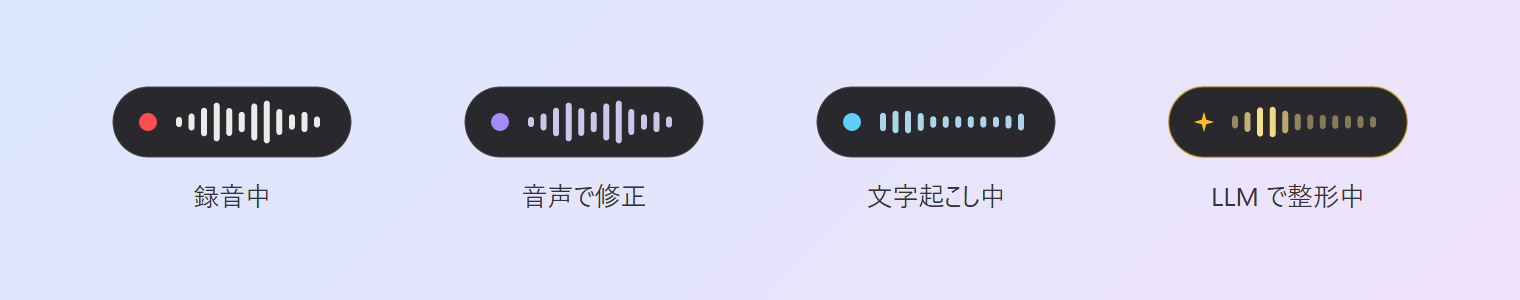
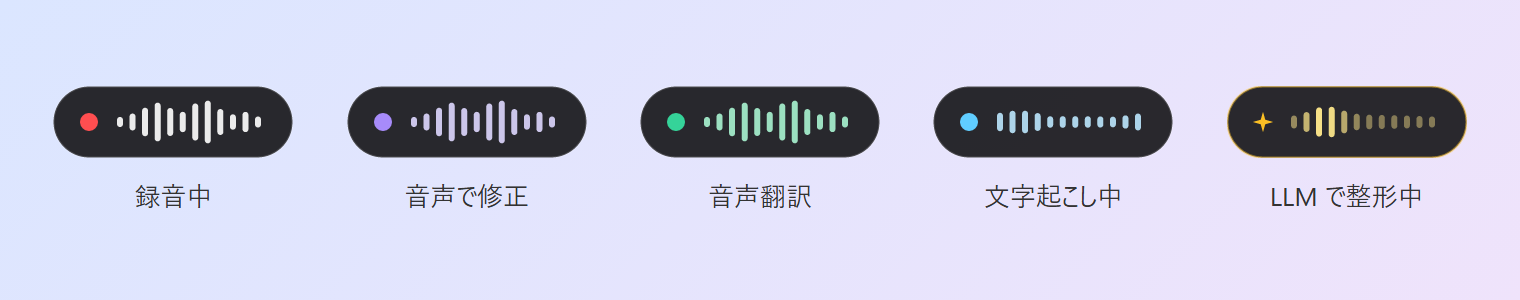
Add voice translation to the README demo, screenshots and feature text
The demo gains a third part: a colleague asks in another language, the
user holds Right Alt and presses T, speaks their own language, and the
translation is typed, followed by the review card (Chinese to English,
English to Japanese, Japanese to English). The floating bar states image
shows the green translation capsule, the settings screenshots include the
new hotkey, and the README text covers the organized polishing, the
output style prompt and the recording countdown.

diff --git a/scripts/readme/scene-demo.html b/scripts/readme/scene-demo.html
@@ -46,6 +46,24 @@
     .speech .label .ico { font: 13px "Segoe Fluent Icons", "Segoe MDL2 Assets"; }
     .speech.on .label { background: #e5484d; color: #fff; }
     .speech.on.revise .label { background: #7c5cd6; }
+    .speech.on.translate .label { background: #10b981; }
+
+    /* 语音翻译：悬浮条上方的目标语言小条、输出后的核对小窗（样子同 ui/translate.html） */
+    .lang-strip { position: absolute; left: 50%; bottom: 106px; transform: translateX(-50%); display: flex; align-items: center; gap: 8px; height: 40px; padding: 0 6px 0 12px; background: rgba(24,24,27,.92); color: #fff; border: 1px solid rgba(255,255,255,.16); border-radius: 20px; box-shadow: 0 4px 16px rgba(0,0,0,.18); white-space: nowrap; }
+    .lang-strip .ico { font: 14px "Segoe Fluent Icons", "Segoe MDL2 Assets"; color: #34d399; }
+    .lang-strip .label { font-size: 12px; color: #c5c5c5; }
+    .lang-strip .box { height: 28px; padding: 0 12px; line-height: 26px; border-radius: 14px; background: rgba(255,255,255,.08); border: 1px solid rgba(255,255,255,.18); }
+    .tcard { position: absolute; left: 50%; bottom: 60px; transform: translateX(-50%); width: 440px; display: flex; flex-direction: column; gap: 6px; padding: 10px 14px 12px; background: #fbfbfb; border: 1px solid #e0e0e0; border-radius: 10px; box-shadow: 0 4px 16px rgba(0,0,0,.18); }
+    .tcard .head { display: flex; align-items: center; gap: 8px; font-size: 12px; color: #5f5f5f; }
+    .tcard .head .x { margin-left: auto; font: 10px "Segoe Fluent Icons", "Segoe MDL2 Assets"; }
+    .tcard .flabel { font-size: 12px; color: #5f5f5f; }
+    .tcard .orig { padding: 6px 8px; border: 1px solid #d6d6d6; border-radius: 6px; background: #fff; }
+    .tcard .row { display: flex; align-items: center; gap: 8px; font-size: 12px; color: #5f5f5f; }
+    .tcard .row .box { padding: 2px 10px; border: 1px solid #d6d6d6; border-radius: 4px; background: #fff; color: #1b1b1b; font-size: 13px; }
+    .tcard .tr { color: #1b1b1b; }
+    .tcard .foot { display: flex; justify-content: flex-end; gap: 8px; margin-top: 2px; }
+    .tcard .btn { height: 28px; padding: 0 14px; line-height: 26px; border: 1px solid #d6d6d6; border-radius: 4px; background: #fff; font-size: 12px; }
+    .tcard .btn.accent { background: #005fb8; border-color: #005fb8; color: #fff; }
     .speech #stext { white-space: nowrap; }
   </style>
 </head>
@@ -54,6 +72,7 @@
   <div class="steps">
     <div class="step" id="step1"><b id="s1t"></b><span id="s1d"></span></div>
     <div class="step" id="step2"><b id="s2t"></b><span id="s2d"></span></div>
+    <div class="step" id="step3"><b id="s3t"></b><span id="s3d"></span></div>
   </div>
   <div class="window">
     <div class="titlebar"><span class="name" id="app"></span><span class="ctl">&#xE921;</span><span class="ctl">&#xE922;</span><span class="ctl">&#xE8BB;</span></div>
@@ -61,6 +80,15 @@
     <div class="input" id="input"></div>
   </div>
   <div class="keys" id="keys"><div class="kbd-row" id="kbd"></div><div class="hint" id="khint"></div></div>
+  <div class="lang-strip" id="strip"><span class="ico">&#xE8C1;</span><span class="label" id="into1"></span><span class="box" id="target1"></span></div>
+  <div class="tcard" id="tcard">
+    <div class="head"><span id="ttitle"></span><span class="x">&#xE711;</span></div>
+    <span class="flabel" id="olabel"></span>
+    <div class="orig" id="heard"></div>
+    <div class="row"><span id="into2"></span><span class="box" id="target2"></span></div>
+    <div class="tr" id="tr"></div>
+    <div class="foot"><span class="btn" id="copy"></span><span class="btn accent" id="retr"></span></div>
+  </div>
   <img class="capsule" id="capsule" alt="">
   <div class="taskbar"><span>&#xE8FC;</span><span class="on">&#xE8BD;</span><span>&#xE8B7;</span><span>&#xE774;</span></div>
   </div>
@@ -81,6 +109,13 @@
       draft: "还行吧，就是有时候有点慢",
       said2: "改得正式一点，再补充一句识别很准",
       out2: "整体体验不错，识别非常准确，只是偶尔响应稍慢。",
+      s3t: "③ 语音翻译", s3d: "说中文，输出英文", holdT: "按住 Right Alt 再按 T",
+      q3: "Could you send me the slides before tomorrow's meeting?",
+      said3: "嗯可以的，我今天下班之前发给你，然后有问题随时问我",
+      heard3: "嗯可以的，我今天下班之前发给你，然后有问题随时问我。",
+      target: "英语",
+      out3: "Sure, I'll send them before I leave work today. Feel free to ask me if you have any questions.",
+      into: "译成", ttitle: "语音翻译", olabel: "识别出的原文（有识别错误可以直接修改）", copy: "复制译文", retr: "重新翻译",
     }, en: {
       app: "Team chat",
       s1t: "① Dictate", s1d: "polished by an LLM", s2t: "② Voice edit", s2d: "say how to change it",
@@ -92,6 +127,13 @@
       draft: "its ok i guess but kinda slow sometimes",
       said2: "make it more formal and add that the accuracy is great",
       out2: "Overall it works well and the accuracy is excellent, though it can be a little slow at times.",
+      s3t: "③ Translate", s3d: "speak English, type Japanese", holdT: "Hold Right Alt, press T",
+      q3: "明日の会議の前に資料を送ってもらえますか？",
+      said3: "sure um I'll send them before I leave today and uh let me know if you have any questions",
+      heard3: "Sure, um, I'll send them before I leave today and, uh, let me know if you have any questions.",
+      target: "Japanese",
+      out3: "はい、今日の退勤前にお送りします。ご不明な点があれば、お気軽にお知らせください。",
+      into: "Into", ttitle: "Voice translation", olabel: "Recognized text (fix any recognition errors here)", copy: "Copy translation", retr: "Retranslate",
     }, ja: {
       app: "チームチャット",
       s1t: "① 音声入力", s1d: "LLM が自動で整形", s2t: "② 音声で修正", s2d: "直し方を話す",
@@ -103,27 +145,43 @@
       draft: "まあまあかな、たまにちょっと遅いけど",
       said2: "もっと丁寧にして、認識がすごく正確なことも付け足して",
       out2: "全体的に使いやすく、認識もとても正確です。ただ、ときどき反応が少し遅くなります。",
+      s3t: "③ 音声翻訳", s3d: "日本語で話して英語で入力", holdT: "Right Alt を押したまま T",
+      q3: "Could you send me the slides before tomorrow's meeting?",
+      said3: "はい、えーと、今日の帰りまでに送りますね、あの、何かあったら聞いてください",
+      heard3: "はい、えーと、今日の帰りまでに送りますね。あの、何かあったら聞いてください。",
+      target: "英語",
+      out3: "Sure, I'll send them before I head home today. Let me know if you have any questions.",
+      into: "翻訳先", ttitle: "音声翻訳", olabel: "認識された原文（認識の誤りはここで直接修正できます）", copy: "訳文をコピー", retr: "再翻訳",
     } }[lang];
-    for (const id of ["app", "s1t", "s1d", "s2t", "s2d"]) document.getElementById(id).textContent = L[id];
+    for (const id of ["app", "s1t", "s1d", "s2t", "s2d", "s3t", "s3d", "ttitle", "olabel", "copy", "retr", "heard3"]) {
+      const el = document.getElementById(id === "heard3" ? "heard" : id);
+      el.textContent = L[id];
+    }
+    for (const id of ["into1", "into2"]) document.getElementById(id).textContent = L.into;
+    for (const id of ["target1", "target2"]) document.getElementById(id).textContent = L.target;
+    document.getElementById("tr").textContent = L.out3;
     document.getElementById("slabel").textContent = L.mic;
 
     // === 时间轴（毫秒）===
     const T = {
       rec1: 700, stop1: 4600, pol1: 5500, out1: 7000, send1: 8200, q2: 8900,
       type2: 9500, typed2: 10700, sel2: 11000, rev2: 11700, stop2: 14500, pol2: 15300, out2: 16700, send2: 17900,
-      end: 19500,
+      q3: 18600, rec3: 19300, stop3: 23300, pol3: 24100, out3: 25500, card3: 26700, send3: 29500,
+      end: 30700,
     };
     const FPS = 30;
-    const FRAMES = { recording: 240, revising: 180, transcribing: 60, polishing: 90 };
+    const FRAMES = { recording: 240, revising: 180, translating: 180, transcribing: 60, polishing: 90 };
     // 悬浮条：[开始, 结束, 状态]
     const CAPSULE = [
       [T.rec1, T.stop1, "recording"], [T.stop1, T.pol1, "transcribing"], [T.pol1, T.out1, "polishing"],
       [T.rev2, T.stop2, "revising"], [T.stop2, T.pol2, "transcribing"], [T.pol2, T.out2, "polishing"],
+      [T.rec3, T.stop3, "translating"], [T.stop3, T.pol3, "transcribing"], [T.pol3, T.out3, "polishing"],
     ];
     // 按键：[按下时刻, 键, 提示]
     const PRESSES = [
       [T.rec1, ["Right Alt"], L.tap], [T.stop1, ["Right Alt"], L.tap],
       [T.rev2, ["Right Alt", "Space"], L.hold], [T.stop2, ["Right Alt"], L.tap],
+      [T.rec3, ["Right Alt", "T"], L.holdT], [T.stop3, ["Right Alt"], L.tap],
     ];
 
     const $ = (id) => document.getElementById(id);
@@ -150,13 +208,16 @@
     function render(t) {
       t = t % T.end;
       $("step1").classList.toggle("on", t < T.q2);
-      $("step2").classList.toggle("on", t >= T.q2);
+      $("step2").classList.toggle("on", t >= T.q2 && t < T.q3);
+      $("step3").classList.toggle("on", t >= T.q3);
 
       // 聊天记录
       const msgs = [["", L.q1]];
       if (t >= T.send1) msgs.push(["me", L.out1]);
       if (t >= T.q2) msgs.push(["", L.q2]);
       if (t >= T.send2) msgs.push(["me", L.out2]);
+      if (t >= T.q3) msgs.push(["", L.q3]);
+      if (t >= T.send3) msgs.push(["me", L.out3]);
       $("chat").innerHTML = msgs.map(([c, s]) => `<div class="msg ${c}">${esc(s)}</div>`).join("");
 
       // 输入框
@@ -174,6 +235,9 @@
       } else if (t >= T.out2 && t < T.send2) {
         const flash = fadeOut(1 - ramp(t, T.out2, 900));
         html = `<span class="new" style="background:rgba(251,191,36,${0.35 * flash})">${esc(L.out2)}</span>${caret}`;
+      } else if (t >= T.out3 && t < T.send3) {
+        const flash = fadeOut(1 - ramp(t, T.out3, 900));
+        html = `<span class="new" style="background:rgba(52,211,153,${0.35 * flash})">${esc(L.out3)}</span>${caret}`;
       }
       $("input").innerHTML = html;
 
@@ -182,6 +246,7 @@
       let said = null, start = 0, stop = 0, out = 0;
       if (t >= T.rec1 && t < T.out1 + 400) [said, start, stop, out] = [L.said1, T.rec1, T.stop1, T.out1];
       if (t >= T.rev2 && t < T.out2 + 400) [said, start, stop, out] = [L.said2, T.rev2, T.stop2, T.out2];
+      if (t >= T.rec3 && t < T.out3 + 400) [said, start, stop, out] = [L.said3, T.rec3, T.stop3, T.out3];
       if (said) {
         const n = Math.max(1, Math.round(len(said) * ramp(t, start + 200, stop - start - 500)));
         const [open, close] = lang === "ja" ? ["「", "」"] : ["“", "”"];
@@ -189,6 +254,7 @@
         $("stext").style.opacity = Math.min(ramp(t, start, 150), fadeOut(1 - ramp(t, out, 400)));
         speech.classList.toggle("on", t < stop);
         speech.classList.toggle("revise", said === L.said2);
+        speech.classList.toggle("translate", said === L.said3);
       } else {
         $("stext").textContent = "";
         speech.classList.remove("on");
@@ -205,6 +271,10 @@
       } else {
         $("keys").style.opacity = 0;
       }
+
+      // 语音翻译：录音时悬浮条上方显示目标语言；译文输入后弹出核对小窗，发送消息时关掉
+      $("strip").style.opacity = t >= T.rec3 && t < T.stop3 ? Math.min(ramp(t, T.rec3, 120), fadeOut(1 - ramp(t, T.stop3 - 120, 120))) : 0;
+      $("tcard").style.opacity = t >= T.card3 && t < T.send3 ? Math.min(ramp(t, T.card3, 150), fadeOut(1 - ramp(t, T.send3 - 150, 150))) : 0;
 
       // 悬浮条：用程序自身绘制的逐帧图片；出现/消失时淡入淡出约 100 ms
       const cap = $("capsule");

diff --git a/scripts/readme/mock.js b/scripts/readme/mock.js
@@ -23,26 +23,32 @@
   const settings = {
     config: {
       ui_language: lang, hotkey: "right alt", revise_hotkey: "right alt+space", revise_stop_hotkey: "right alt",
-      cancel_hotkey: "esc", model: "sense-voice", model_dir: "", language: lang, max_duration: 90, min_duration: 3,
+      cancel_hotkey: "esc", translate_hotkey: "right alt+t", translate_language: "English",
+      speech_source: "local", speech_api: "", speech_api_key: "", speech_api_model: "",
+      model: "sense-voice", model_dir: "", language: lang, max_duration: 90, min_duration: 3,
       device: "gpu", mute_while_recording: true, polish: true, polish_api: "https://api.openai.com/v1",
       polish_api_key: "sk-example", polish_model: "gpt-4o-mini", polish_no_think: true, polish_min_chars: 12,
-      polish_min_seconds: 10, polish_prompt: "", revise_prompt: "", insert_prompt: "",
+      polish_min_seconds: 10, style_prompt: "", polish_prompt: "", revise_prompt: "", insert_prompt: "", translate_prompt: "",
       insert_smart: true, insert_min_seconds: 10, insert_min_chars: 12, vocab_enabled: true, learn_from_edits: true, auto_check_updates: true,
     },
     models,
     default_model_dir: "C:\\Users\\you\\AppData\\Local\\Aoide\\models",
     log_dir: "C:\\Users\\you\\AppData\\Roaming\\Aoide",
     autostart: true,
-    version: "0.4.1",
+    version: "0.5.0",
     system_language: lang,
     defaults: {
       ui_language: "auto", hotkey: "right alt", revise_hotkey: "right alt+space", revise_stop_hotkey: "right alt",
-      cancel_hotkey: "esc", model: "sense-voice", model_dir: "", language: "auto", max_duration: 90, min_duration: 3,
+      cancel_hotkey: "esc", translate_hotkey: "right alt+t", translate_language: "English",
+      speech_source: "local", speech_api: "", speech_api_key: "", speech_api_model: "",
+      model: "sense-voice", model_dir: "", language: "auto", max_duration: 90, min_duration: 3,
       device: "gpu", mute_while_recording: true, polish: true, polish_api: "", polish_api_key: "", polish_model: "",
-      polish_no_think: true, polish_min_chars: 12, polish_min_seconds: 10, polish_prompt: "", revise_prompt: "", insert_prompt: "",
+      polish_no_think: true, polish_min_chars: 12, polish_min_seconds: 10, style_prompt: "", polish_prompt: "", revise_prompt: "", insert_prompt: "", translate_prompt: "",
       insert_smart: true, insert_min_seconds: 10, insert_min_chars: 12, vocab_enabled: true, learn_from_edits: true, auto_check_updates: true,
     },
+    default_style_prompt: "…",
     default_polish_prompt: "…",
+    default_translate_prompt: "…",
     default_revise_prompt: "…",
     default_insert_prompt: "…",
   };

diff --git a/scripts/readme/scene-states.html b/scripts/readme/scene-states.html
@@ -20,6 +20,7 @@
 <body>
   <figure><img src="img/capsule-recording.png" alt=""><figcaption data-zh="录音中" data-en="Recording" data-ja="録音中"></figcaption></figure>
   <figure><img src="img/capsule-revising.png" alt=""><figcaption data-zh="语音修订" data-en="Voice edit" data-ja="音声で修正"></figcaption></figure>
+  <figure><img src="img/capsule-translating.png" alt=""><figcaption data-zh="语音翻译" data-en="Voice translation" data-ja="音声翻訳"></figcaption></figure>
   <figure><img src="img/capsule-transcribing.png" alt=""><figcaption data-zh="转写中" data-en="Transcribing" data-ja="文字起こし中"></figcaption></figure>
   <figure><img src="img/capsule-polishing.png" alt=""><figcaption data-zh="LLM 润色中" data-en="LLM polishing" data-ja="LLM で整形中"></figcaption></figure>
   <script>

diff --git a/src-tauri/src/overlay.rs b/src-tauri/src/overlay.rs
@@ -373,7 +373,7 @@ mod tests {
     }
 
     /// README 演示动图用：按 30 fps 导出各状态的逐帧动画（scripts/readme-demo.ps1 调用）
-    /// 输出 {VT_IMG_DIR}/frames/{recording,revising,transcribing,polishing}-NNNN.png
+    /// 输出 {VT_IMG_DIR}/frames/{recording,revising,translating,transcribing,polishing}-NNNN.png
     #[test]
     #[ignore]
     fn export_capsule_frames() {
@@ -390,6 +390,7 @@ mod tests {
         for (name, mode, secs) in [
             ("recording", Mode::Recording, 8.0),
             ("revising", Mode::Revising, 6.0),
+            ("translating", Mode::Translating, 6.0),
             ("transcribing", Mode::Processing, 2.0),
             ("polishing", Mode::Polishing, 3.0),
         ] {
@@ -397,7 +398,7 @@ mod tests {
             for i in 0..(secs * FPS) as usize {
                 let t = i as f32 / FPS;
                 let mut v = anim(mode, [0.0; N_BARS], now - Duration::from_secs_f32(t));
-                if matches!(mode, Mode::Recording | Mode::Revising) {
+                if matches!(mode, Mode::Recording | Mode::Revising | Mode::Translating) {
                     // 与 update_bars 相同：每 60 ms 推入一格音量，从右往左滚动
                     let shifts = (t * 1000.0 / 60.0) as i32;
                     for (k, b) in v.bars.iter_mut().enumerate() {

diff --git a/README.ja.md b/README.ja.md
@@ -25,7 +25,7 @@
 </p>
 
 <p align="center">
-  <img src="docs/images/ja/demo.webp" width="760" alt="デモ：チャットアプリに音声入力すると LLM が話し言葉を整え、続いて返信を選択して音声で書き直す">
+  <img src="docs/images/ja/demo.webp" width="760" alt="デモ：チャットアプリに音声入力すると LLM が話し言葉を整え、返信を選択して音声で書き直し、最後に日本語で話して英語で入力する">
 </p>
 
 <p align="center"><sub><i>Aoide</i>（アオイデー）は、ギリシャ神話で声と歌をつかさどるムーサの名前に由来します</sub></p>
@@ -47,9 +47,9 @@ Aoide は Windows と macOS 向けの音声入力アプリで、Typeless や Wis
 
 > macOS の既定のショートカットキーは `右 Option` で、トレイアイコンはメニューバーに表示されます。これらのキーがないことが多い日本語（JIS）キーボードでは、Windows は `変換` キー、macOS は `右 Command` が既定です。音声で修正は、そのキー + `Space` です。
 
-- **フィードバック**：開始・終了・キャンセルでそれぞれ異なる効果音が鳴ります。画面下部のフローティングバーに処理の状態が表示され、トレイアイコンには録音中は赤、完了時は緑のバッジが付きます。エラーなどのメッセージは画面下部の小さな通知に表示され、自動で閉じます（システム通知を使わないため、通知をオフにしていても見逃しません）。
+- **フィードバック**：開始・終了・キャンセルでそれぞれ異なる効果音が鳴ります。画面下部のフローティングバーに処理の状態が表示され（録音が最長時間に近づくと最後の 20 秒をカウントダウン）、トレイアイコンには録音中は赤、完了時は緑のバッジが付きます。エラーなどのメッセージは画面下部の小さな通知に表示され、自動で閉じます（システム通知を使わないため、通知をオフにしていても見逃しません）。
 
-  ![フローティングバーの状態：録音中、音声で修正、文字起こし中、LLM で整形中](docs/images/ja/states.png)
+  ![フローティングバーの状態：録音中、音声で修正、音声翻訳、文字起こし中、LLM で整形中](docs/images/ja/states.png)
 
 - **スマートな出力**：フォーカスのあるコントロールに入力できる場合は結果を貼り付け、その後で元のクリップボードのテキストを戻します。入力できない場合は、画面下部の小さなカードに結果を表示し、**コピー**・**閉じる** ボタンで扱えるので、内容が失われることはありません。
 
@@ -57,7 +57,7 @@ Aoide は Windows と macOS 向けの音声入力アプリで、Typeless や Wis
 
 - **文脈に合わせた挿入**：カーソルが既存のテキストの途中にあるとき、LLM がカーソル前後のテキストを参照し、カーソル位置に入るべき部分だけを、前後の言語や句読点に合わせて書きます。既存のテキストは一切変更せず、結果はカーソル位置に貼り付けます。短い音声入力は速さを優先して文字起こし結果をそのまま挿入し、長い入力のときだけ LLM を使います（しきい値は変更可能）。LLM API の設定が必要です。パスワード欄は決して読み取りません。
 - **言葉を覚える**：人名、製品名、専門用語など、何度も誤認識される言葉は一度直すだけで済みます。入力された後で入力欄の中の言葉を直すと、Aoide は自分が入力した内容と修正後を比べ、読みが近いことを確かめたうえで（言い換えを誤認識と取り違えないため）、その組み合わせを辞書に追加し、**元に戻す** ボタン付きの小さな通知を表示します。次からは、繰り返し直した誤認識はそのまま置き換え、それ以外は関連する辞書の項目と一緒に LLM に渡し、文脈に合わせて直させます。**設定 → 辞書** から手動で単語を追加することもできます。
-- **LLM による整形**：「えー」「あの」などのフィラーを取り除き、途切れた文をつなげ、列挙された要点を番号付きリストにまとめます。話していない内容を付け足すことはありません。
+- **LLM による整形**：「えー」「あの」などのフィラーを取り除き、途切れた文をつなげたうえで、内容を整理します。いくつかの要点を話すと「短い前置き + 番号付きリスト」に、長めの説明は段落に分け、短いメッセージは 1 文のままにします。話していない内容を付け足すことはありません。体裁と言葉づかいのルールは、整形・挿入・音声で修正・翻訳に共通の「出力スタイル」プロンプトにまとめてあり、**設定 → プロンプト** で編集できます。
 - **自動アップデート**：1 日 1 回新しいバージョンを確認し、画面下部の通知とトレイメニューの項目でお知らせします。ワンクリックで更新でき、署名付きのインストーラーをダウンロード・検証してインストールし、Aoide が自動で再起動します。音声入力中に更新することはありません。毎日の確認はオフにでき、**設定 → バージョン情報** から手動で確認することもできます。
 - **2 つの音声認識エンジン**：SenseVoice（既定）はどの CPU でも高速で、中国語の精度が非常に高く、幻覚もほとんど起きません。Whisper モデルは Vulkan を通じて GPU で動作し（NVIDIA、AMD、Intel に対応、CUDA のインストールは不要）、GPU が使えない場合は自動で CPU に切り替わります。Apple シリコン搭載の Mac では Metal を通じて GPU で動作します。
 

diff --git a/README.md b/README.md
@@ -25,7 +25,7 @@
 </p>
 
 <p align="center">
-  <img src="docs/images/en/demo.webp" width="760" alt="Demo: dictating into a chat app, the LLM cleans up the speech; then selecting a reply and rewriting it by voice">
+  <img src="docs/images/en/demo.webp" width="760" alt="Demo: dictating into a chat app, the LLM cleans up the speech; selecting a reply and rewriting it by voice; then speaking one language and typing another">
 </p>
 
 <p align="center"><sub><i>Aoide</i> (pronounced "ay-OY-dee") is named after the Greek Muse of voice and song</sub></p>
@@ -47,9 +47,9 @@ No account and no cloud service needed. Audio only leaves your computer if you c
 
 > On macOS the default hotkey is `Right Option`, and the tray icon lives in the menu bar. On Japanese (JIS) keyboards, which often lack these keys, the default is `変換` (Henkan) on Windows and `Right Command` on macOS; voice edit is that key + `Space`.
 
-- **Feedback**: distinct sounds for start, stop and cancel; a floating bar at the bottom of the screen shows what Aoide is doing; the tray icon gets a red badge while recording and a green one when done. Errors and other messages appear in a small notice at the bottom of the screen that closes on its own (Aoide doesn't use system notifications, so they can't be missed when notifications are off).
+- **Feedback**: distinct sounds for start, stop and cancel; a floating bar at the bottom of the screen shows what Aoide is doing, and counts down the last 20 seconds before a recording reaches its maximum length; the tray icon gets a red badge while recording and a green one when done. Errors and other messages appear in a small notice at the bottom of the screen that closes on its own (Aoide doesn't use system notifications, so they can't be missed when notifications are off).
 
-  ![Floating bar states: recording, voice edit, transcribing, LLM polishing](docs/images/en/states.png)
+  ![Floating bar states: recording, voice edit, voice translation, transcribing, LLM polishing](docs/images/en/states.png)
 
 - **Smart output**: if the focused control accepts text, the result is pasted and your previous clipboard text is restored afterwards. Otherwise the result appears in a small card at the bottom of the screen with **Copy** and **Close** buttons, so nothing is lost.
 
@@ -57,7 +57,7 @@ No account and no cloud service needed. Audio only leaves your computer if you c
 
 - **Context-aware insertion**: when the cursor sits inside existing text, the LLM sees the text before and after the cursor and writes only the piece that belongs at the cursor, matching the surrounding language and punctuation. The existing text is never changed — the result is pasted at the cursor. Short dictation is inserted as transcribed for speed; the LLM step kicks in for longer input (configurable). Requires an LLM API; password fields are never read.
 - **Learns your words**: names, product names and jargon that keep coming out wrong only need to be fixed once. Correct the word in the text box after it is typed, and Aoide compares your edit with what it typed, checks that the two sound alike (so rewording is not mistaken for a recognition error), adds the pair to your vocabulary and shows a small notice with **Undo**. Next time, a misrecognition you have corrected repeatedly is replaced directly; others are passed to the LLM together with the related vocabulary entries, so it can fix them in context. You can also add words by hand under **Settings → Vocabulary**.
-- **LLM polishing**: removes filler words ("um", "uh", 嗯, 那个…), joins broken sentences, and turns lists of points into a numbered list — without adding content you didn't say.
+- **LLM polishing**: removes filler words ("um", "uh", 嗯, 那个…) and joins broken sentences, then organizes what you said: several points become a short lead-in plus a numbered list, a longer explanation is split into paragraphs, and a short message stays a single sentence. Nothing you didn't say is added. The layout and wording rules live in one **Output style** prompt shared by polishing, insertion, voice edit and translation; edit it under **Settings → Prompts**.
 - **Automatic updates**: Aoide checks for a new version once a day, lets you know with a notice at the bottom of the screen and a tray menu item, and updates in one click: the signed installer is downloaded, verified and installed, and Aoide restarts on its own. It never updates while you are dictating. You can turn the daily check off and check manually under **Settings → About**.
 - **Two speech engines**: SenseVoice (default) is fast on any CPU, very accurate for Chinese and rarely hallucinates; Whisper models run on the GPU through Vulkan (NVIDIA, AMD or Intel, no CUDA install required) and fall back to CPU automatically. On Apple silicon Macs they run on the GPU through Metal.
 

diff --git a/README.zh-CN.md b/README.zh-CN.md
@@ -25,7 +25,7 @@
 </p>
 
 <p align="center">
-  <img src="docs/images/zh/demo.webp" width="760" alt="演示：在聊天软件里语音输入，LLM 整理口语；再选中一段回复，用语音改写">
+  <img src="docs/images/zh/demo.webp" width="760" alt="演示：在聊天软件里语音输入，LLM 整理口语；选中一段回复，用语音改写；再说中文、输出英文">
 </p>
 
 <p align="center"><sub><i>Aoide</i>（阿俄伊得）得名于希腊神话中掌管歌声与嗓音的缪斯</sub></p>
@@ -47,9 +47,9 @@ Aoide 是一款 Windows 和 macOS 平台的语音输入应用，是 Typeless、W
 
 > macOS 上默认快捷键是 `右Option`，托盘图标在菜单栏里。日文（JIS）键盘上往往没有这两个键，默认改为 Windows 的 `変換` 键、macOS 的 `右Command`；语音修订是该键加 `Space`。
 
-- **反馈**：开始、结束、取消各有不同的提示音；屏幕底部的悬浮条显示当前所处的阶段；托盘图标录音时带红色角标，完成时带绿色角标。出错等消息显示在屏幕底部的提示小窗里，几秒后自动关闭（不使用系统通知，关掉了通知也不会错过）。
+- **反馈**：开始、结束、取消各有不同的提示音；屏幕底部的悬浮条显示当前所处的阶段，录音快到最长时长时显示最后 20 秒的倒计时；托盘图标录音时带红色角标，完成时带绿色角标。出错等消息显示在屏幕底部的提示小窗里，几秒后自动关闭（不使用系统通知，关掉了通知也不会错过）。
 
-  ![悬浮条的各个状态：录音中、语音修订、转写中、LLM 润色中](docs/images/zh/states.png)
+  ![悬浮条的各个状态：录音中、语音修订、语音翻译、转写中、LLM 润色中](docs/images/zh/states.png)
 
 - **智能输出**：焦点控件可输入时直接粘贴，粘完自动恢复你原来的剪贴板文本；否则在屏幕底部弹出一张结果卡片显示识别结果，带「复制」和「关闭」按钮，内容不会丢失。
 
@@ -57,7 +57,7 @@ Aoide 是一款 Windows 和 macOS 平台的语音输入应用，是 Typeless、W
 
 - **按上下文插入**：光标在已有文字中间时，LLM 会参考光标前后的文字，只生成应该插入光标处的内容，并与前后文的语言、标点自然衔接。已有文字绝不会被改动（结果是在光标处粘贴的）。很短的口述直接插入转写结果、保证速度，较长的才交给 LLM（阈值可调）。需要配置 LLM API；密码框的内容绝不会被读取。
 - **记住你的词**：人名、产品名、行业术语总被识别错，只需改正一次。识别结果输入后，直接在输入框里把错的词改对，Aoide 会比对你的修改和它输入的内容，确认两者读音相近（不会把你换了说法误当成识别错误），把这组纠正加入词库，并弹出带 **撤销** 按钮的提示。之后再遇到：反复纠正过的误识别直接替换，其余的连同相关词条交给 LLM 结合上下文改正。也可以在 **设置 → 词库** 里手动添加。
-- **LLM 润色**：去掉语气词（嗯、啊、那个……），把断句连成完整句子，多个并列要点自动排成编号列表 —— 不会添加你没说的内容。
+- **LLM 润色**：去掉语气词（嗯、啊、那个……），把断句连成完整句子，再把内容整理好：说了几个要点，就整理成「一句引子 + 编号列表」；较长的说明分成段落；一句话的短消息保持一句话。不会添加你没说的内容。排版和措辞规则统一放在「输出风格」提示词里，由润色、插入、修订、翻译共用，可在 **设置 → 提示词** 修改。
 - **自动更新**：每天检查一次新版本，通过屏幕底部的提示小窗和托盘菜单提醒你，一键即可更新：自动下载带签名的安装包、校验后安装，装完自动重启。正在语音输入时不会更新。可以在 **设置 → 关于** 里手动检查，也可以关掉每日检查。
 - **两种识别引擎**：SenseVoice（默认）在任何 CPU 上都很快，中文识别准确，几乎不会产生幻觉；Whisper 模型通过 Vulkan 在 GPU 上运行（支持 NVIDIA、AMD、Intel 显卡，无需安装 CUDA），没有可用 GPU 时自动退回 CPU。Apple 芯片的 Mac 上通过 Metal 在 GPU 上运行。
 
